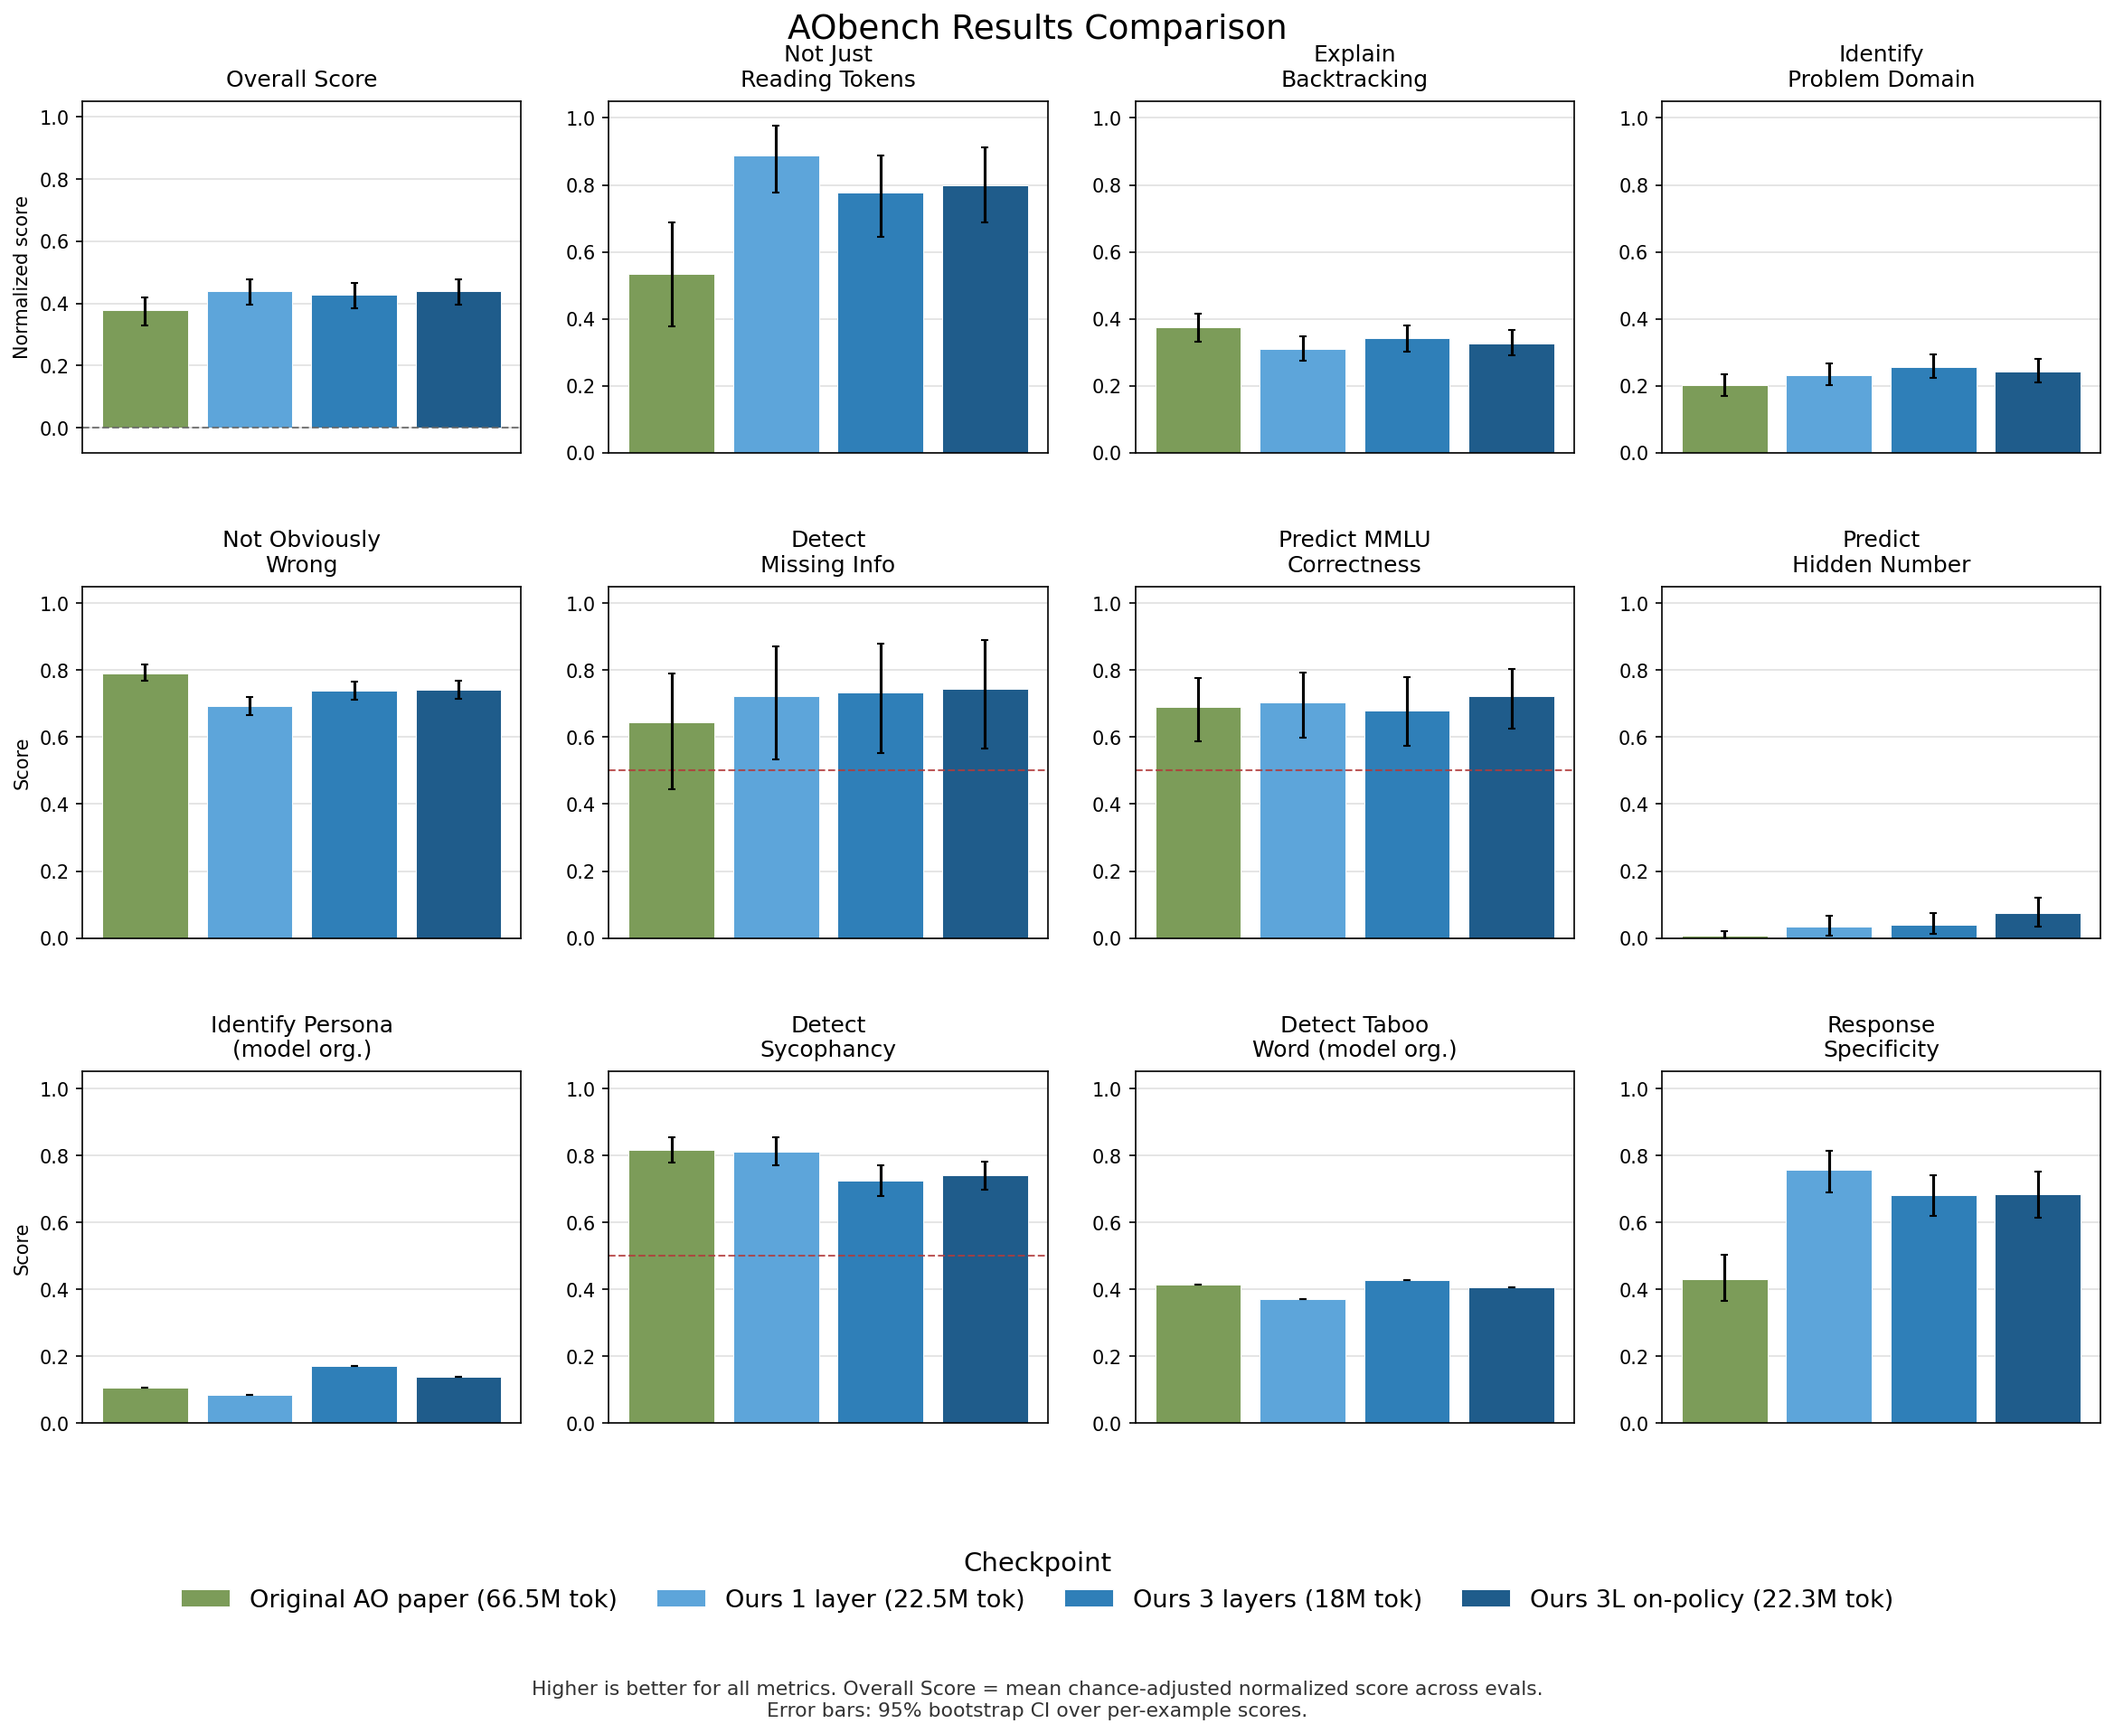
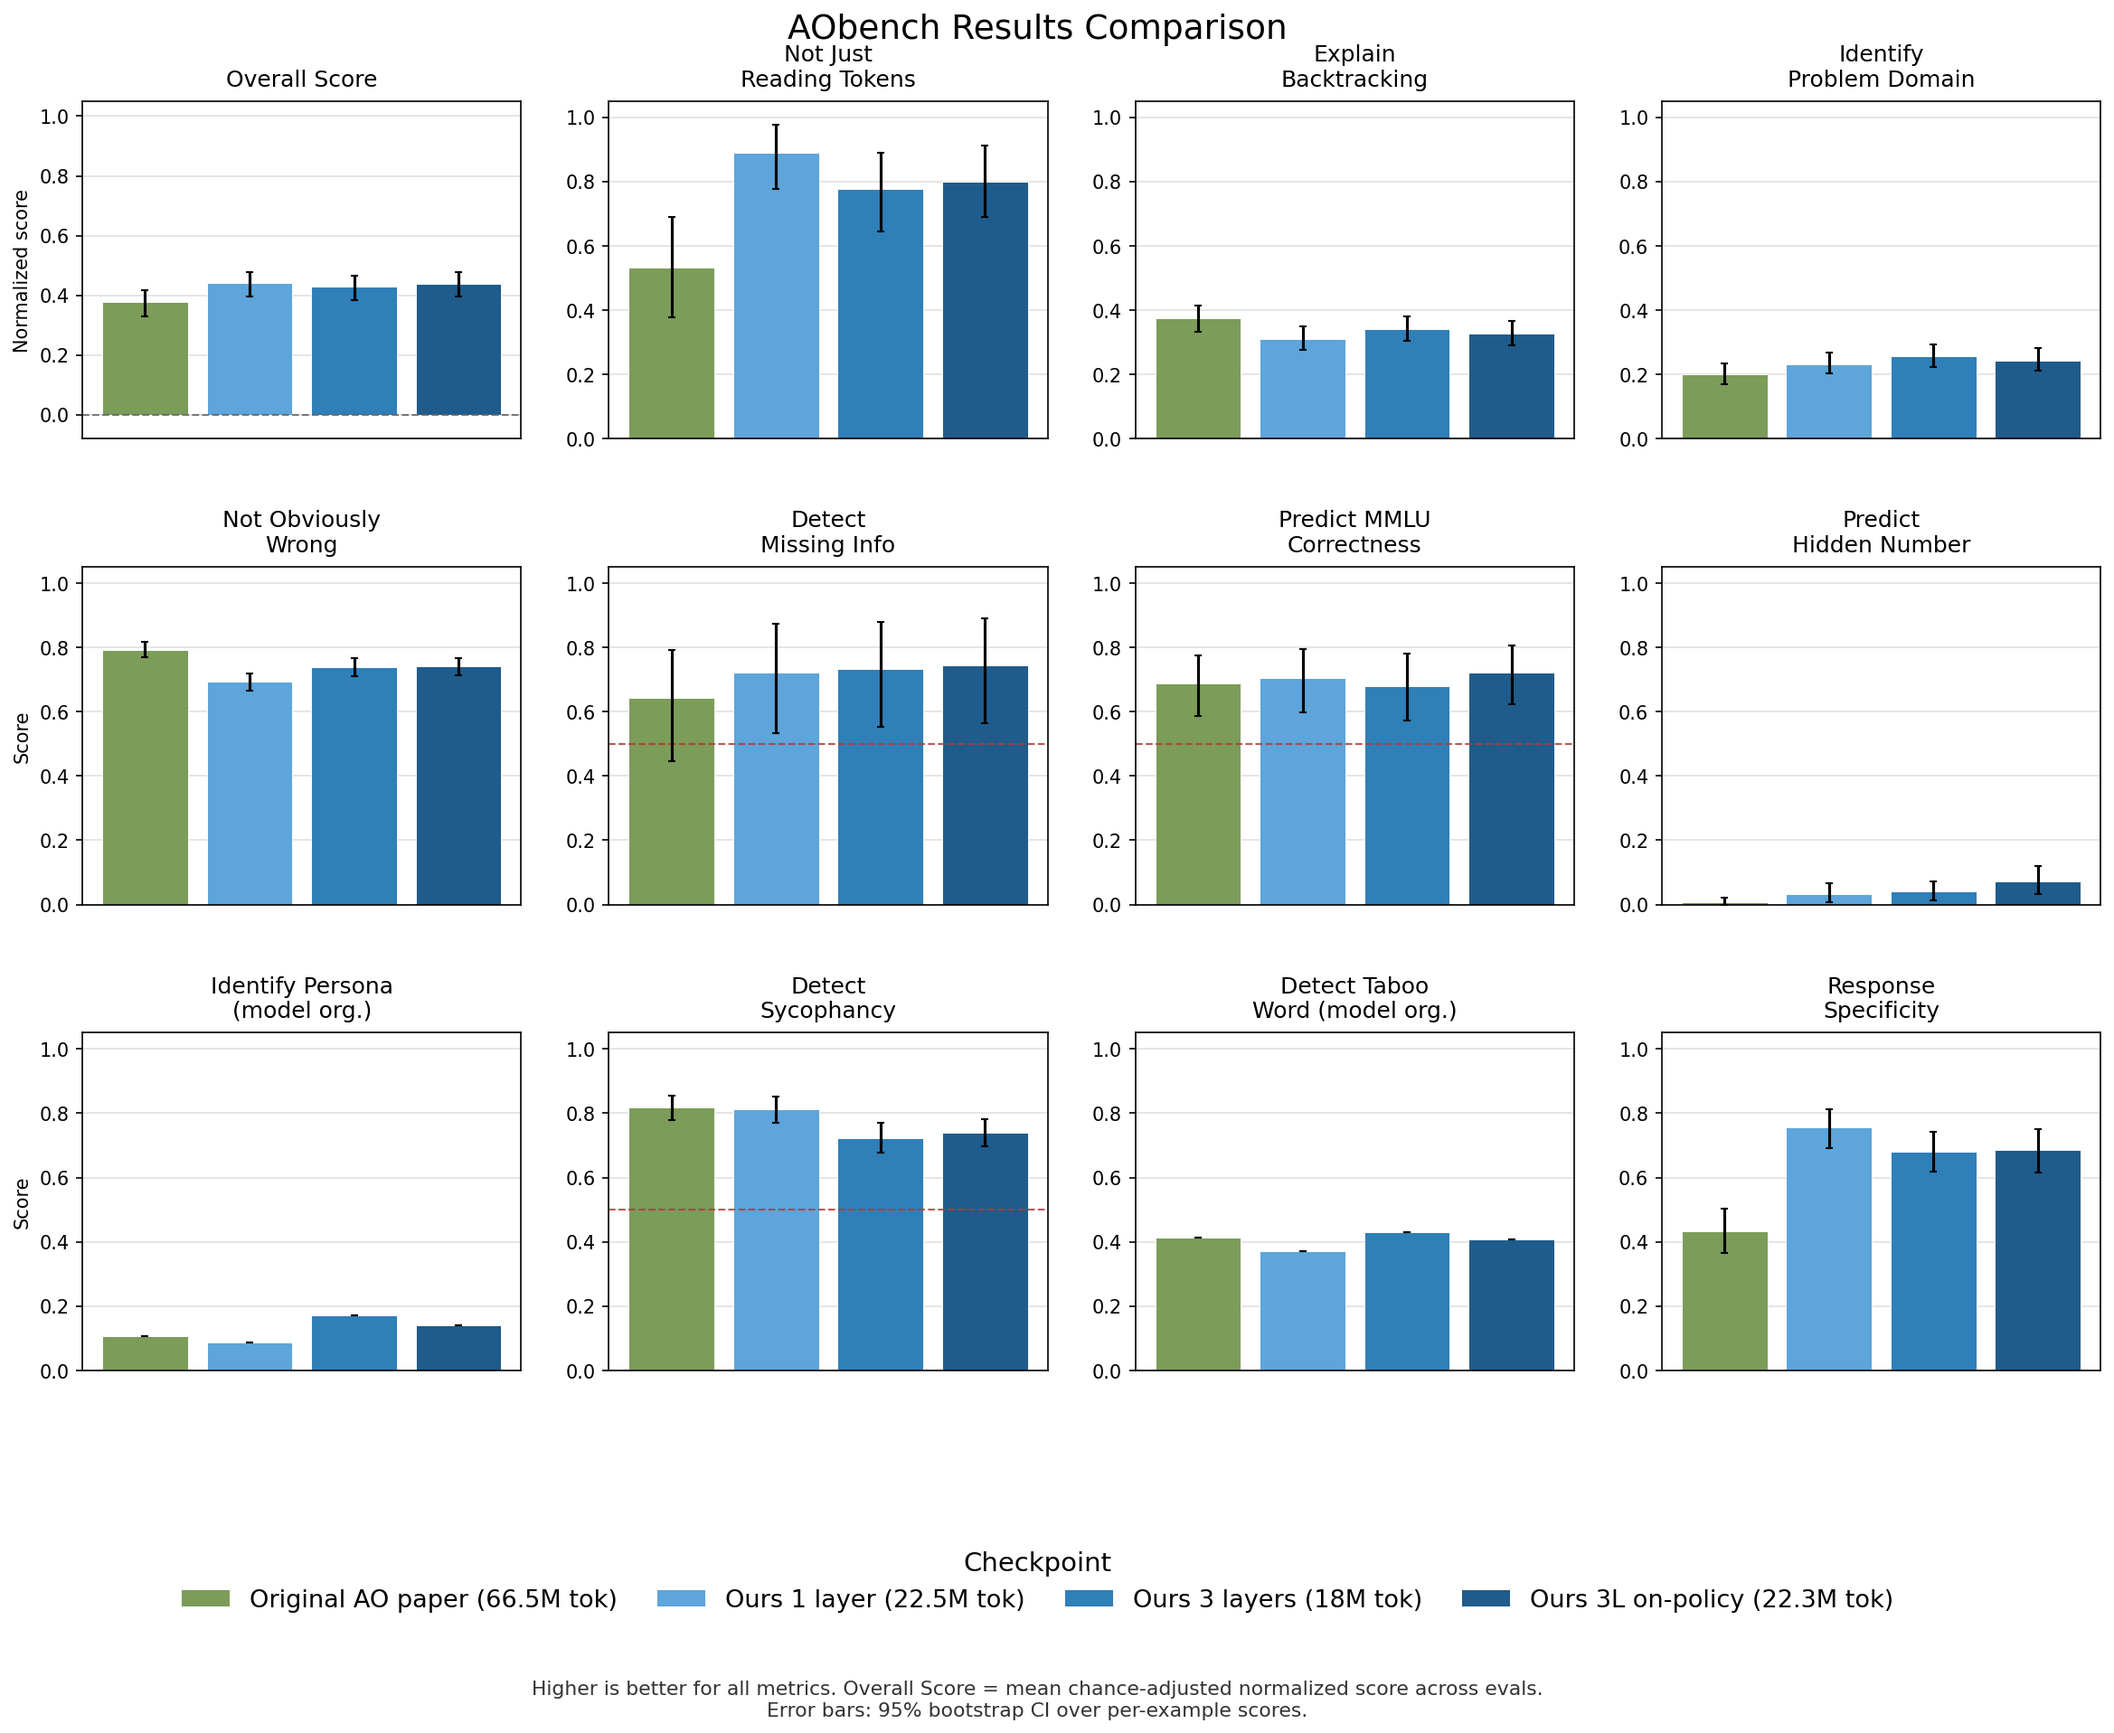
AObench: increase bottom margin so error bar annotation doesn't overlap

diff --git a/AObench/utils/report.py b/AObench/utils/report.py
@@ -675,7 +675,7 @@ def plot_category_breakdown(
     fig.suptitle(title, fontsize=16, y=1.02)
     fig.text(0.99, 0.01, "Error bars: 95% bootstrap CI over per-example scores",
              ha="right", va="bottom", fontsize=8, color="#888888", style="italic")
-    fig.subplots_adjust(left=0.08, right=0.99, top=0.88, bottom=0.22, wspace=0.25)
+    fig.subplots_adjust(left=0.08, right=0.99, top=0.88, bottom=0.26, wspace=0.25)
     os.makedirs(os.path.dirname(output_path) or ".", exist_ok=True)
     plt.savefig(output_path, dpi=150, bbox_inches="tight")
     plt.close()
@@ -820,7 +820,7 @@ def plot_comparison_bar_chart(
         color="#333333",
     )
     fig.suptitle(title, fontsize=18, y=0.98)
-    fig.subplots_adjust(left=0.06, right=0.99, top=0.93, bottom=0.18, hspace=0.38, wspace=0.2)
+    fig.subplots_adjust(left=0.06, right=0.99, top=0.93, bottom=0.21, hspace=0.38, wspace=0.2)
     os.makedirs(os.path.dirname(output_path) or ".", exist_ok=True)
     plt.savefig(output_path, dpi=150, bbox_inches="tight")
     plt.close()
